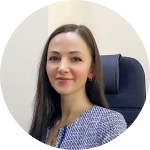
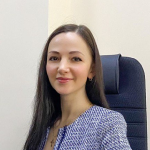
change image container

diff --git a/src/scss/components/callback.scss b/src/scss/components/callback.scss
@@ -157,6 +157,10 @@
 
     &__content-container__second-expert-avatar {
         border-radius: 50%;
+        width: 150px;
+        height: 150px;
+        overflow: hidden;
+        
 
         @media (max-width: 440px) {
             width: 75px;
